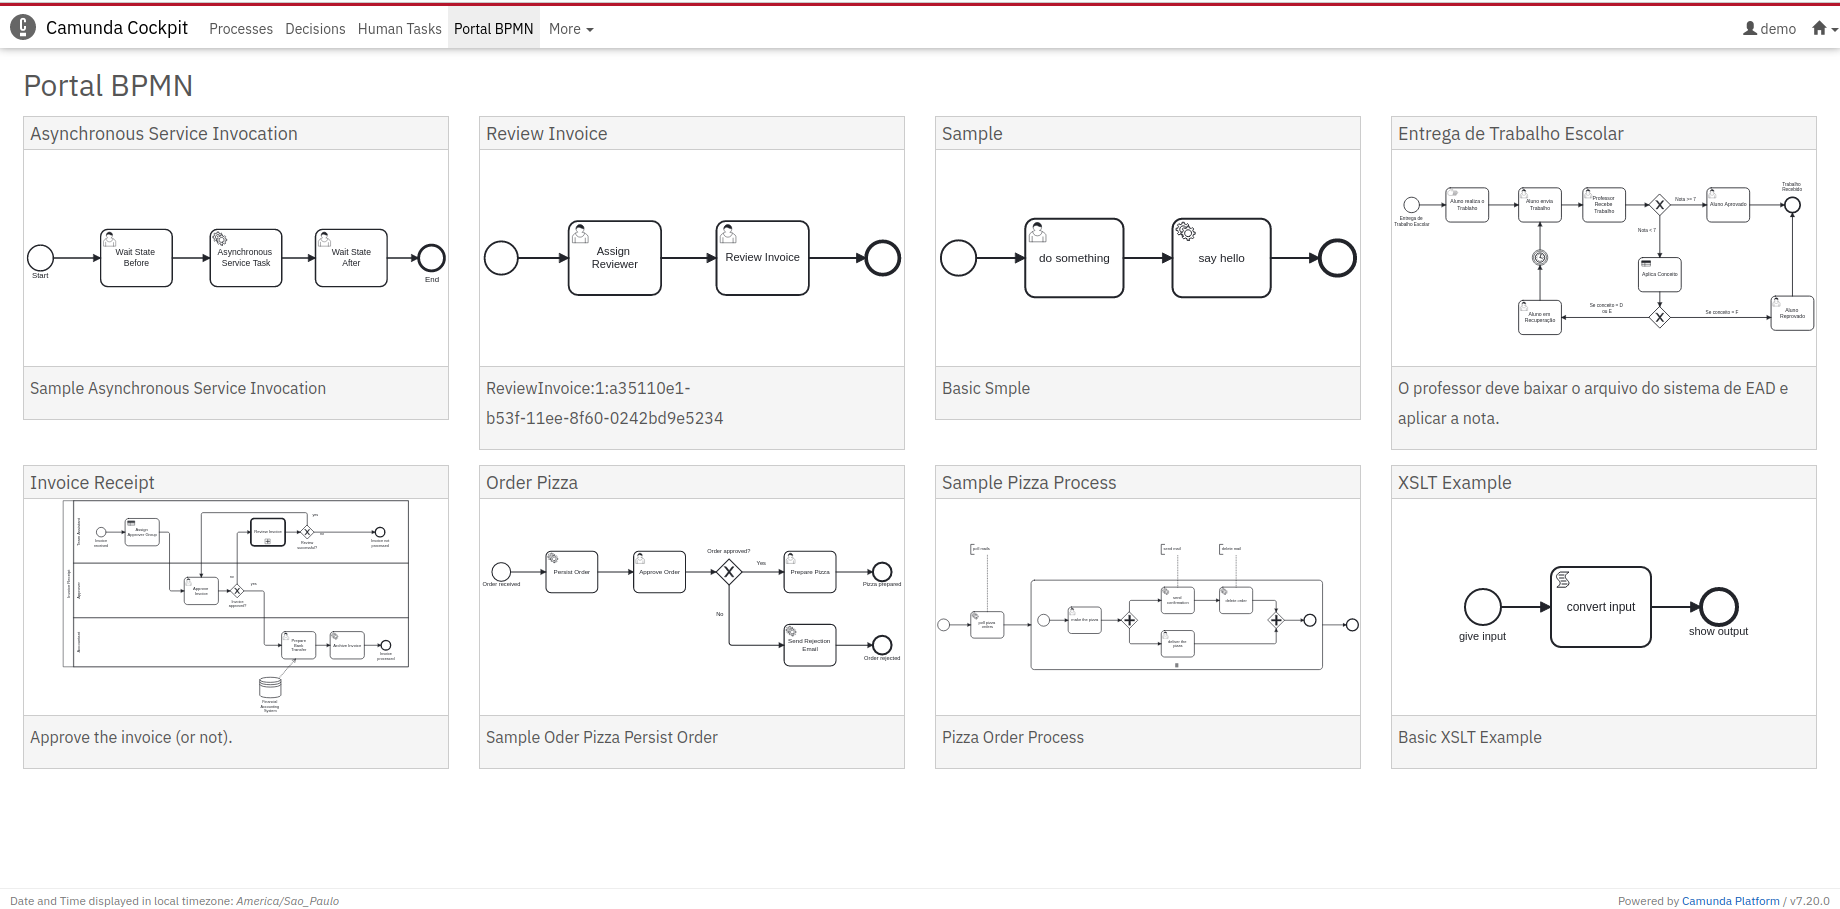
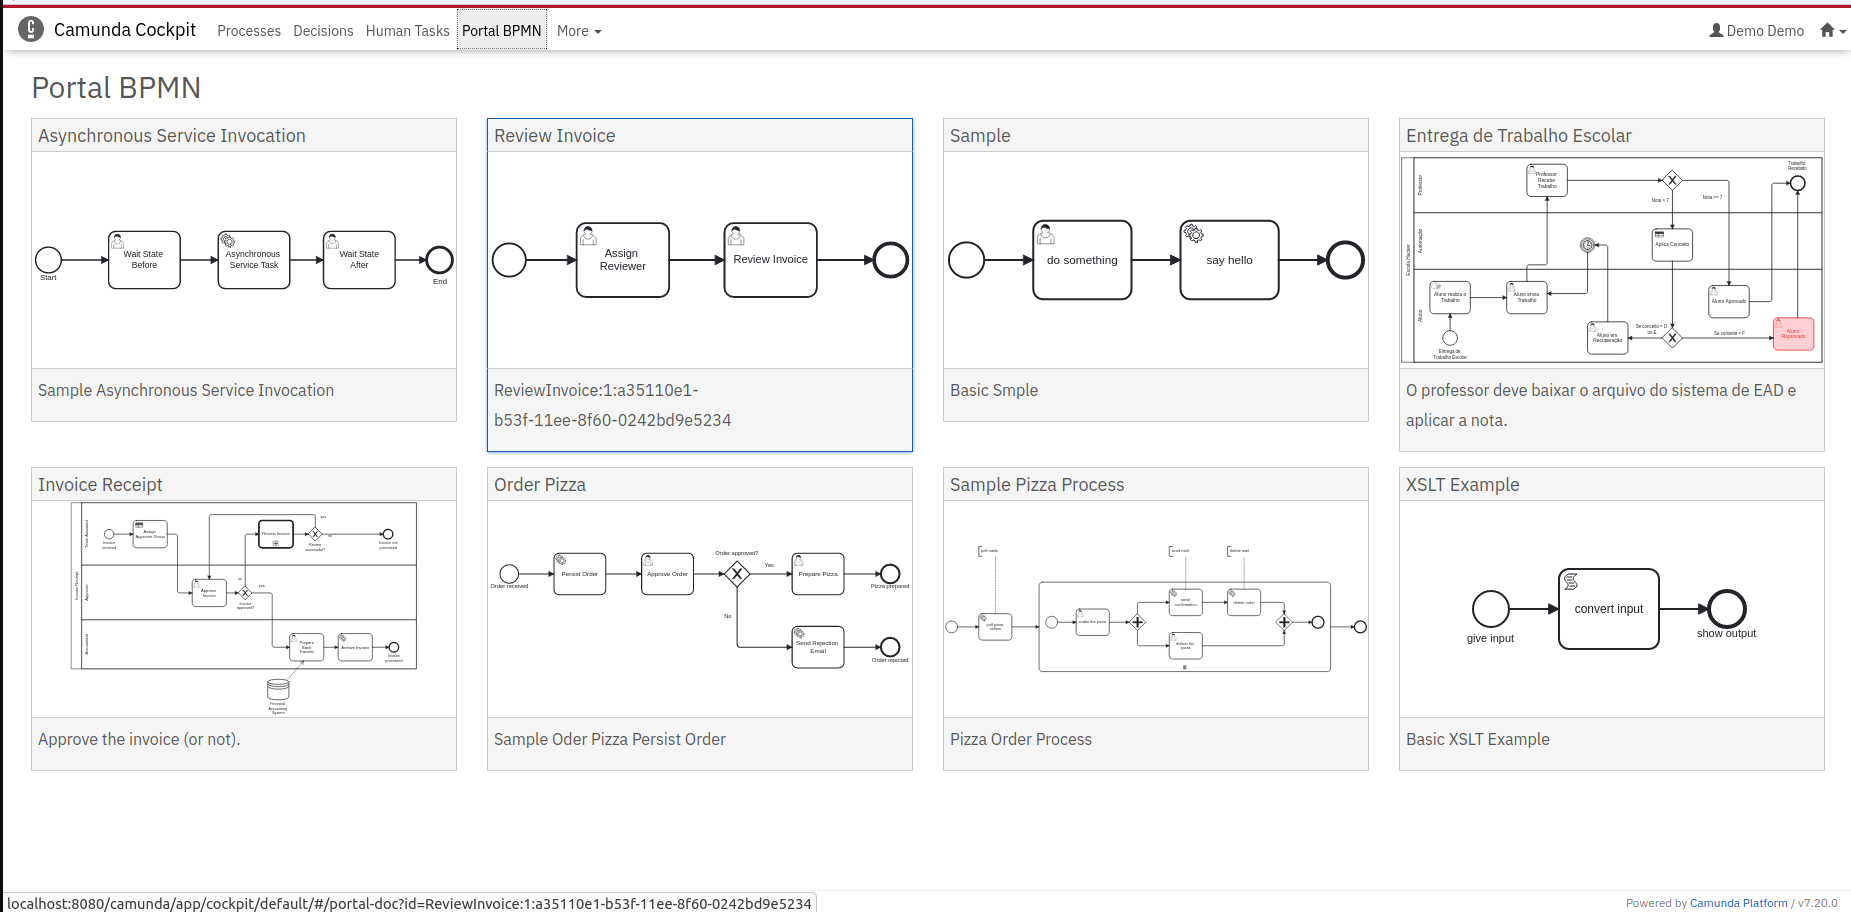
atualizada aba de detalhes tecnicos

diff --git a/src/app/documentation/diagram-documentation/diagram-documentation.component.ts b/src/app/documentation/diagram-documentation/diagram-documentation.component.ts
@@ -28,6 +28,9 @@ export class DiagramDocumentationComponent implements OnInit {
     this.diagramDocumentation.push({
       id: processFirstChild.getAttribute("id"),
       name: processFirstChild.getAttribute("name"),
+      assignee: processFirstChild.getAttribute("camunda:assignee"),
+      candidateGroups: processFirstChild.getAttribute("camunda:candidateGroups"),
+      dueDate: processFirstChild.getAttribute("camunda:dueDate"),
       documentation:
         processFirstChild.tagName === "bpmn:documentation" &&
         processFirstChild?.textContent,
@@ -42,6 +45,9 @@ export class DiagramDocumentationComponent implements OnInit {
       this.diagramDocumentation.push({
         id: processChild.getAttribute("id"),
         name: processChild.getAttribute("name"),
+        assignee: processChild.getAttribute("camunda:assignee"),
+        candidateGroups: processChild.getAttribute("camunda:candidateGroups"),
+        dueDate: processChild.getAttribute("camunda:dueDate"),
         documentation: processChild.querySelector("documentation")?.textContent,
         extendedDocumentation: processChild.getAttribute(
           "documentation:extendedDocumentation"

diff --git a/src/app/documentation/diagram-documentation/diagram-documentation.component.html b/src/app/documentation/diagram-documentation/diagram-documentation.component.html
@@ -9,11 +9,12 @@
       *ngIf="d.extendedDocumentation"
       [innerHTML]="d.extendedDocumentation"
     ></div>
-    <small><b>Technical details:</b></small><br>
-    <small [id]="d.id">
-      Element Name: {{ d.id }}
-    </small>
 
+    <small><b>Detalhes técnicos Camunda:</b></small><br>
+    <small><b>Nome do Elemento: </b>{{ d.id }}<br></small>
+    <small *ngIf="d.assignee"><b>Responsável: </b>{{ d.assignee }}<br></small>
+    <small *ngIf="d.candidateGroups"><b>Grupo Candidato: </b>{{ d.candidateGroups }}<br></small>
+    <small *ngIf="d.dueDate"><b>Prazo: </b>{{ d.dueDate }}<br></small>
     <hr />
   </ng-container>
 </ng-container>

diff --git a/src/app/documentation/process-diagram-documentation/process-diagram-documentation.component.ts b/src/app/documentation/process-diagram-documentation/process-diagram-documentation.component.ts
@@ -23,6 +23,9 @@ export class ProcessDiagramDocumentationComponent implements OnInit {
     this.diagramDocumentation = {
       id: processContainer.getAttribute("id"),
       name: processContainer.getAttribute("name"),
+      assignee: processContainer.getAttribute("camunda:assignee"),
+      candidateGroups: processContainer.getAttribute("camunda:candidateGroups"),
+      dueDate: processContainer.getAttribute("camunda:dueDate"),
       documentation:
         processContainer.querySelector("documentation")?.textContent,
       extendedDocumentation: processContainer.getAttribute(

diff --git a/src/app/documentation/diagram-documentation/diagram-documentation.ts b/src/app/documentation/diagram-documentation/diagram-documentation.ts
@@ -1,6 +1,9 @@
 export interface DiagramDocumentation {
   id: string;
   name: string;
+  assignee: string;
+  candidateGroups: string;
+  dueDate: string;
   documentation: string;
   extendedDocumentation: string;
 }

diff --git a/README.md b/README.md
@@ -6,7 +6,7 @@ Este projeto visa construir um portal de documentação de processos integrados 
 Para um uso de todas funcionalidades deve ser usado em conjunto com o Plugin do  Camunda Modeler [WYSIWYG Documentation editor for Camunda Modeler](https://github.com/sharedchains/camunda-wysiwyg-documentation)
 
 ## Suporte de Versões.
-Este plugin foi homologado e testado na versão 7.20 do Camunda. Suportado por toda versões 7.20 ou Superior
+Este plugin foi homologado e testado na versão 7.20 do Camunda. Suportado por toda versões 7.20 ou superiores.
 
 ## Funcionalidades.
 
@@ -36,7 +36,7 @@ Local do arquico <instal-camunda-path>/server/apache-tomcat-9.0.75/webapps/camun
 Adicione as linhas abaixo no customScripts
 
 ```js
- customScripts: [
+customScripts: [
  'scripts/portal-bpm/plugin.js'
 ]
 ```
@@ -71,7 +71,7 @@ nano /opt/camunda/camunda-bpm-tomcat-7.20.0/server/apache-tomcat-9.0.75/webapps/
 
 
 ```js
- customScripts: [
+customScripts: [
  'scripts/portal-bpm/plugin.js'
 ]
 ```
@@ -94,7 +94,18 @@ npm run buildPlugin
 
  * Na apresentação de 6 processos as divs da página inicial ficaram quebradas quando a descrição do processo usa duas linhas.
 
+ * Apresentar video youtube incorporado. NO WYSIWYG funciona mas no portal não. 
+
+ * As cores adicionadas no editor, por exemplo vermelho não estão aparecendo no Portal.
+
 ### Melhorias:
+
+* i18N - Implementar internacionalização e traduzir em en,de  e pt_BR.
+
+* UI: Colocar uma ação para apresentar e esconder a área "Technical details", estas informações não são relevantes para usuários de negócio.
+
+* UI: Colocar o Icone do tipo de Element HTML miniatura antes do nome do Elemento.
+
 * Versionamento: Suporte a versionamento de processos (criar um select para permitir o usuário selecionar versões anteriores , mostrar poir default sempre a última como está)
 
 * Controle -de Acesso: Respeitar controle de acesso do usuário para visibilidade do processo.
